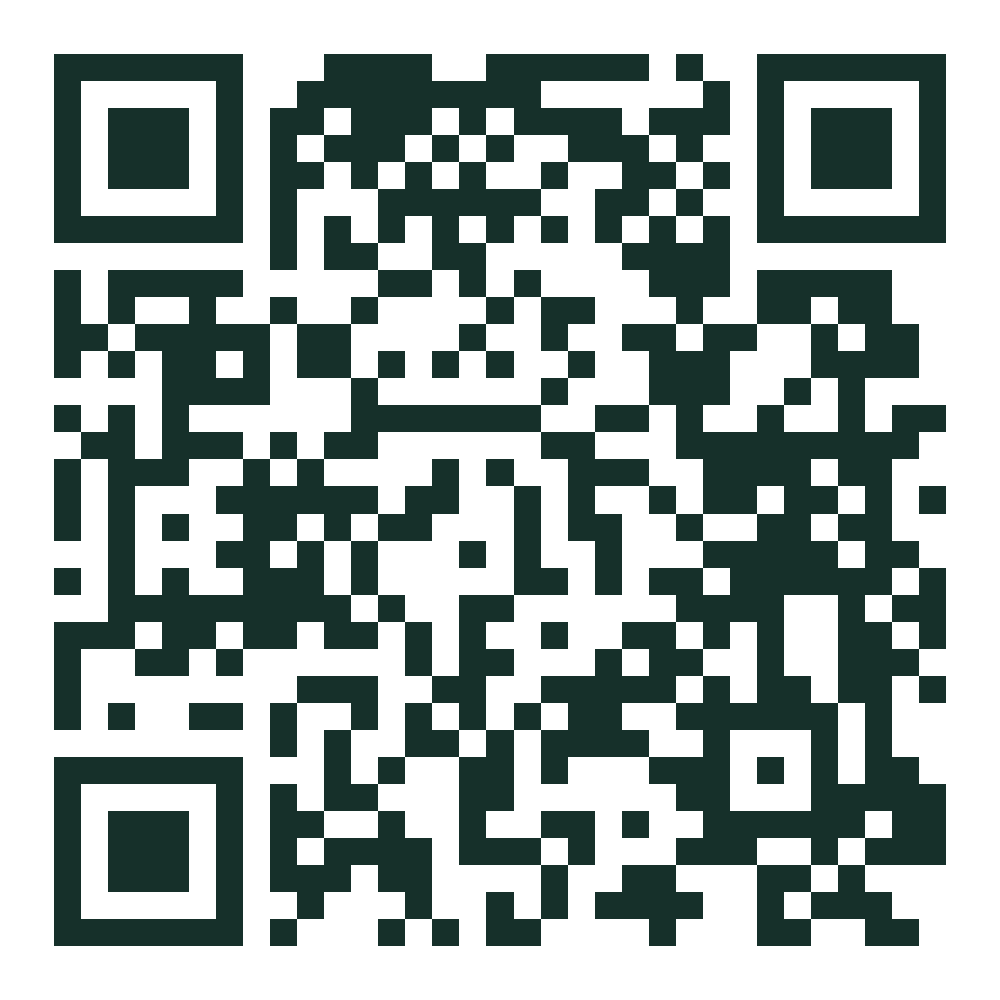
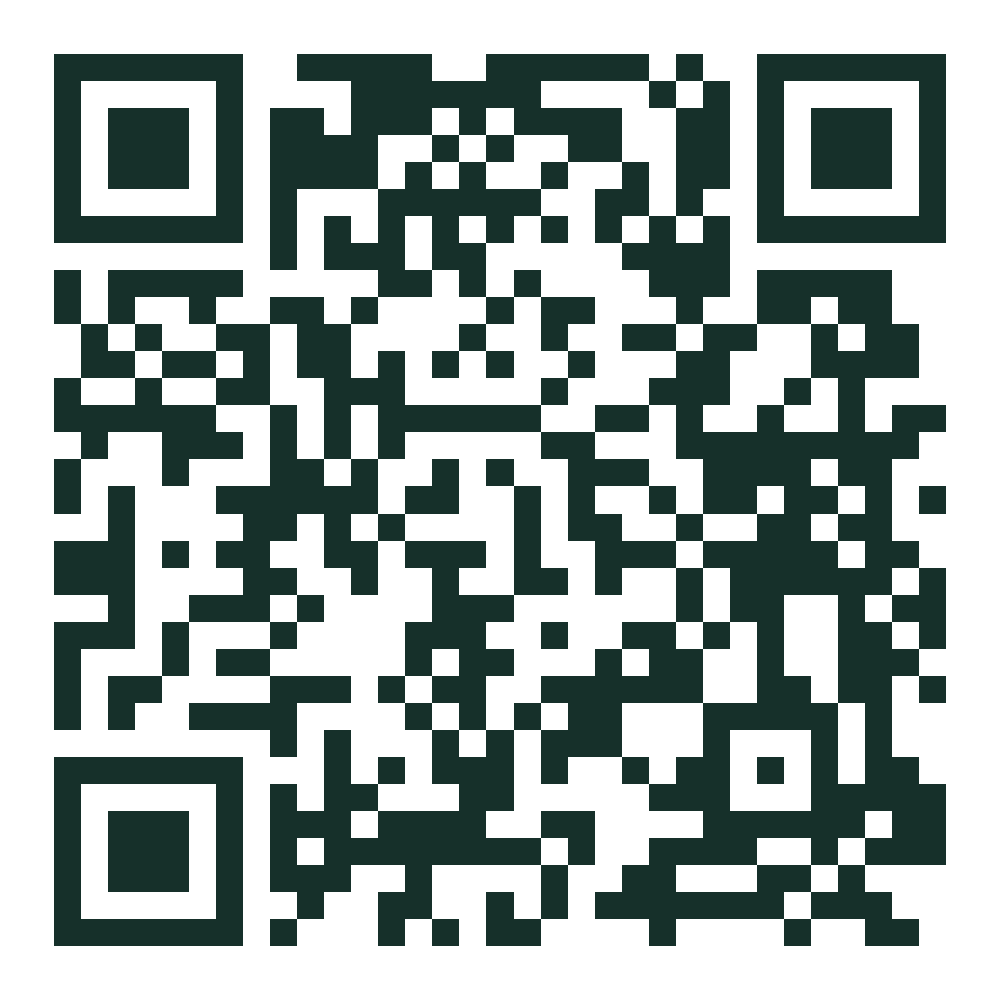
Add files via upload

diff --git a/에리카/index.html b/에리카/index.html
@@ -6,11 +6,11 @@
 <title>김득분 | 한화금융서비스</title>
 <meta property="og:title" content="김득분 | FP · 한화금융서비스">
 <meta property="og:description" content="26년간 헤어디자이너로 고객을 만나며 사람과 신뢰를 먼저 배웠습니다. 지금은 보험 FP로서 그 경험을 살려, 고객님의 보장과 미래를 함께 살펴드리고 있습니다.">
-<meta property="og:image" content="https://jinjjabg-hub.github.io/NAMECARD/%EA%B9%80%EB%93%9D%EB%B6%84/og.png">
+<meta property="og:image" content="https://jinjjabg-hub.github.io/NAMECARD/%EC%97%90%EB%A6%AC%EC%B9%B4/og.png">
 <meta property="og:image:width" content="1200">
 <meta property="og:image:height" content="630">
 <meta property="og:type" content="website">
-<meta property="og:url" content="https://jinjjabg-hub.github.io/NAMECARD/김득분/">
+<meta property="og:url" content="https://jinjjabg-hub.github.io/NAMECARD/에리카/">
 <link rel="preconnect" href="https://fonts.googleapis.com">
 <link href="https://fonts.googleapis.com/css2?family=Noto+Sans+KR:wght@300;400;500;700&family=Noto+Sans+JP:wght@400;700&family=Noto+Sans+SC:wght@400;700&display=swap" rel="stylesheet">
 <style>
@@ -655,7 +655,7 @@ footer .slogan-footer { font-size: 11px; color: var(--muted-dark); letter-spacin
       <div class="contact-label">Threads</div>
       <div class="contact-value">@deuk_boon</div>
     </a>
-    <a class="contact-item" href="https://jinjjabg-hub.github.io/MANDU/?u=kim-deukbun" target="_blank">
+    <a class="contact-item" href="https://jinjjabg-hub.github.io/MANDU/?u=erica" target="_blank">
       <div class="contact-icon">💬</div>
       <div class="contact-label">MANDU</div>
       <div class="contact-value">
@@ -677,7 +677,7 @@ footer .slogan-footer { font-size: 11px; color: var(--muted-dark); letter-spacin
       <span data-lang="jp">📞 連絡先を保存</span>
       <span data-lang="cn">📞 保存联系人</span>
     </button>
-    <button class="btn btn-secondary" onclick="saveToCardbook({id:'kim-deukbun',name:'김득분',nameEn:'KIM DEUKBUN',title:'FP',company:'한화금융서비스',phone:'010-3581-2832',email:'cg1523@naver.com',chapter:'',bni:'',url:window.location.href})">
+    <button class="btn btn-secondary" onclick="saveToCardbook({id:'erica',name:'김득분',nameEn:'KIM DEUKBUN',title:'FP',company:'한화금융서비스',phone:'010-3581-2832',email:'cg1523@naver.com',chapter:'',bni:'',url:window.location.href})">
       <span data-lang="kr" class="active">🗂 명함 저장 (CardBook)</span>
       <span data-lang="en">🗂 Save to CardBook</span>
       <span data-lang="jp">🗂 名刺を保存</span>
@@ -750,7 +750,7 @@ function setLang(lang) {
   });
 }
 function saveContact() {
-  const vcard = `BEGIN:VCARD\nVERSION:3.0\nFN:김득분\nORG:한화금융서비스\nTITLE:FP\nTEL:010-3581-2832\nEMAIL:cg1523@naver.com\nURL:https://jinjjabg-hub.github.io/NAMECARD/김득분/\nEND:VCARD`;
+  const vcard = `BEGIN:VCARD\nVERSION:3.0\nFN:김득분\nORG:한화금융서비스\nTITLE:FP\nTEL:010-3581-2832\nEMAIL:cg1523@naver.com\nURL:https://jinjjabg-hub.github.io/NAMECARD/에리카/\nEND:VCARD`;
   const blob = new Blob([vcard], {type:'text/vcard'});
   const a = document.createElement('a');
   a.href = URL.createObjectURL(blob);
@@ -759,7 +759,7 @@ function saveContact() {
 }
 
 /* ── 명함 전달하기 ── */
-const CARD_URL = 'https://jinjjabg-hub.github.io/NAMECARD/%EA%B9%80%EB%93%9D%EB%B6%84/';
+const CARD_URL = 'https://jinjjabg-hub.github.io/NAMECARD/%EC%97%90%EB%A6%AC%EC%B9%B4/';
 const CARD_TITLE = '김득분 | 한화금융서비스';
 const CARD_TEXT = '보장분석 FP 김득분입니다. 명함을 확인해 주세요.';
 
@@ -802,7 +802,7 @@ async function _manduWaitFirebase(maxTries) {
 }
 
 async function _manduFinishActivate(user) {
-  const slug = 'kim-deukbun';
+  const slug = 'erica';
   const db = firebase.firestore();
 
   const existing = await db.collection('manduid_index').doc(slug).get();
@@ -843,7 +843,7 @@ async function activateMandu() {
     const provider = new firebase.auth.GoogleAuthProvider();
     const isMobile = /Android|iPhone|iPad|iPod/i.test(navigator.userAgent);
     if (isMobile) {
-      sessionStorage.setItem('_manduPendingSlug', 'kim-deukbun');
+      sessionStorage.setItem('_manduPendingSlug', 'erica');
       await auth.signInWithRedirect(provider);
       return;
     }
